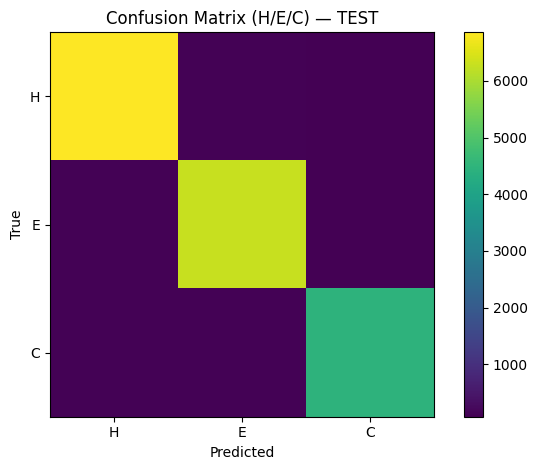
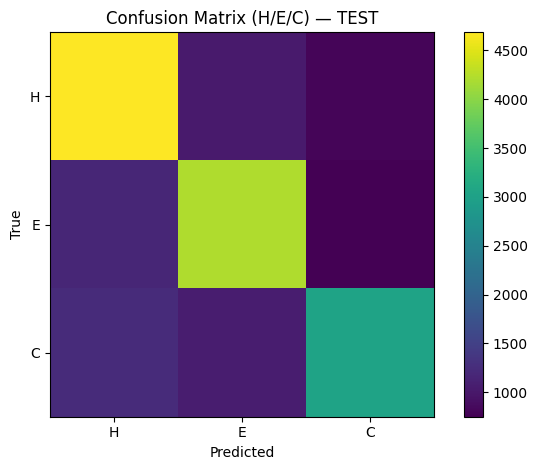
Built site for gh-pages

diff --git a/day7_seq2seq_decorder.html b/day7_seq2seq_decorder.html
@@ -64,6 +64,7 @@ pre > code.sourceCode > span > a:first-child::before { text-decoration: underlin
 <script src="site_libs/quarto-search/fuse.min.js"></script>
 <script src="site_libs/quarto-search/quarto-search.js"></script>
 <meta name="quarto:offset" content="./">
+<link href="./day8_attention.html" rel="next">
 <link href="./day6_seq2seq_encoder.html" rel="prev">
 <script src="site_libs/quarto-html/quarto.js"></script>
 <script src="site_libs/quarto-html/popper.min.js"></script>
@@ -224,6 +225,12 @@ window.Quarto = {
  <span class="menu-text"><span class="chapter-number">8</span>&nbsp; <span class="chapter-title">Day7 Seq2Seq Decoder</span></span></a>
   </div>
 </li>
+        <li class="sidebar-item">
+  <div class="sidebar-item-container"> 
+  <a href="./day8_attention.html" class="sidebar-item-text sidebar-link">
+ <span class="menu-text"><span class="chapter-number">9</span>&nbsp; <span class="chapter-title">Day8 seq2seq with attention</span></span></a>
+  </div>
+</li>
     </ul>
     </div>
 </nav>
@@ -247,6 +254,7 @@ window.Quarto = {
   <ul class="collapse">
   <li><a href="#example" id="toc-example" class="nav-link" data-scroll-target="#example"><span class="header-section-number">8.4.1</span> Example</a></li>
   <li><a href="#model-and-data" id="toc-model-and-data" class="nav-link" data-scroll-target="#model-and-data"><span class="header-section-number">8.4.2</span> Model and Data</a></li>
+  <li><a href="#training-1" id="toc-training-1" class="nav-link" data-scroll-target="#training-1"><span class="header-section-number">8.4.3</span> Training</a></li>
   </ul></li>
   </ul>
 </nav>
@@ -445,7 +453,7 @@ in an <em>autoregressive</em> manner — meaning each predicted token is fed bac
 <section id="example" class="level3" data-number="8.4.1">
 <h3 data-number="8.4.1" class="anchored" data-anchor-id="example"><span class="header-section-number">8.4.1</span> Example</h3>
 <ul>
-<li><p>Seq2Seq (no-attention) — Protein secondary-structure tagging (H/E/C)</p></li>
+<li><p>Seq2Seq (no-attention) — Protein secondary-structure tagging (H: helix, E: strand, C: coil)</p></li>
 <li><p>Task: Amino-acid sequence → per-residue labels {H: helix, E: strand, C: coil}</p>
 <ul>
 <li>Synthetic, biologically-plausible toy dataset (helix/strand segments embedded)</li>
@@ -494,7 +502,7 @@ in an <em>autoregressive</em> manner — meaning each predicted token is fed bac
 {'&lt;pad&gt;': 0, 'H': 1, 'E': 2, 'C': 3}</code></pre>
 </div>
 </div>
-<div id="cell-11" class="cell" data-execution_count="62">
+<div id="cell-11" class="cell" data-execution_count="72">
 <div class="sourceCode cell-code" id="cb5"><pre class="sourceCode python code-with-copy"><code class="sourceCode python"><span id="cb5-1"><a href="#cb5-1" aria-hidden="true" tabindex="-1"></a><span class="co"># ------------------------------</span></span>
 <span id="cb5-2"><a href="#cb5-2" aria-hidden="true" tabindex="-1"></a><span class="co"># Simple synthetic data: sample AA, assign labels by propensities + small noise</span></span>
 <span id="cb5-3"><a href="#cb5-3" aria-hidden="true" tabindex="-1"></a><span class="co"># ------------------------------</span></span>
@@ -502,7 +510,7 @@ in an <em>autoregressive</em> manner — meaning each predicted token is fed bac
 <span id="cb5-5"><a href="#cb5-5" aria-hidden="true" tabindex="-1"></a>BETA    <span class="op">=</span> <span class="bu">set</span>(<span class="bu">list</span>(<span class="st">"VIYFWTC"</span>))</span>
 <span id="cb5-6"><a href="#cb5-6" aria-hidden="true" tabindex="-1"></a>COIL    <span class="op">=</span> <span class="bu">set</span>(<span class="bu">list</span>(<span class="st">"PGSN"</span>))</span>
 <span id="cb5-7"><a href="#cb5-7" aria-hidden="true" tabindex="-1"></a></span>
-<span id="cb5-8"><a href="#cb5-8" aria-hidden="true" tabindex="-1"></a><span class="kw">def</span> gen_sample(min_len<span class="op">=</span><span class="dv">60</span>, max_len<span class="op">=</span><span class="dv">120</span>, noise<span class="op">=</span><span class="fl">0.05</span>):</span>
+<span id="cb5-8"><a href="#cb5-8" aria-hidden="true" tabindex="-1"></a><span class="kw">def</span> gen_sample(min_len<span class="op">=</span><span class="dv">60</span>, max_len<span class="op">=</span><span class="dv">120</span>, noise<span class="op">=</span><span class="fl">0.5</span>):</span>
 <span id="cb5-9"><a href="#cb5-9" aria-hidden="true" tabindex="-1"></a>    L <span class="op">=</span> random.randint(min_len, max_len)</span>
 <span id="cb5-10"><a href="#cb5-10" aria-hidden="true" tabindex="-1"></a>    seq <span class="op">=</span> [random.choice(AA) <span class="cf">for</span> _ <span class="kw">in</span> <span class="bu">range</span>(L)]</span>
 <span id="cb5-11"><a href="#cb5-11" aria-hidden="true" tabindex="-1"></a>    labels <span class="op">=</span> []</span>
@@ -541,7 +549,7 @@ in an <em>autoregressive</em> manner — meaning each predicted token is fed bac
 </section>
 <section id="model-and-data" class="level3" data-number="8.4.2">
 <h3 data-number="8.4.2" class="anchored" data-anchor-id="model-and-data"><span class="header-section-number">8.4.2</span> Model and Data</h3>
-<div id="cell-13" class="cell" data-execution_count="64">
+<div id="cell-13" class="cell">
 <div class="sourceCode cell-code" id="cb6"><pre class="sourceCode python code-with-copy"><code class="sourceCode python"><span id="cb6-1"><a href="#cb6-1" aria-hidden="true" tabindex="-1"></a></span>
 <span id="cb6-2"><a href="#cb6-2" aria-hidden="true" tabindex="-1"></a></span>
 <span id="cb6-3"><a href="#cb6-3" aria-hidden="true" tabindex="-1"></a><span class="co"># ------------------------------</span></span>
@@ -550,14 +558,14 @@ in an <em>autoregressive</em> manner — meaning each predicted token is fed bac
 <span id="cb6-6"><a href="#cb6-6" aria-hidden="true" tabindex="-1"></a><span class="kw">class</span> Tagger(nn.Module):</span>
 <span id="cb6-7"><a href="#cb6-7" aria-hidden="true" tabindex="-1"></a>    <span class="kw">def</span> <span class="fu">__init__</span>(<span class="va">self</span>, vocab, n_labels, emb<span class="op">=</span><span class="dv">128</span>, hid<span class="op">=</span><span class="dv">256</span>):</span>
 <span id="cb6-8"><a href="#cb6-8" aria-hidden="true" tabindex="-1"></a>        <span class="bu">super</span>().<span class="fu">__init__</span>()</span>
-<span id="cb6-9"><a href="#cb6-9" aria-hidden="true" tabindex="-1"></a>        <span class="va">self</span>.emb <span class="op">=</span> nn.Embedding(vocab, emb, padding_idx<span class="op">=</span>PAD_SRC)</span>
+<span id="cb6-9"><a href="#cb6-9" aria-hidden="true" tabindex="-1"></a>        <span class="va">self</span>.emb <span class="op">=</span> nn.Embedding(vocab, emb, padding_idx<span class="op">=</span>PAD_SRC) <span class="co"># vocab = 23</span></span>
 <span id="cb6-10"><a href="#cb6-10" aria-hidden="true" tabindex="-1"></a>        <span class="va">self</span>.rnn <span class="op">=</span> nn.GRU(emb, hid, batch_first<span class="op">=</span><span class="va">True</span>, bidirectional<span class="op">=</span><span class="va">True</span>)</span>
 <span id="cb6-11"><a href="#cb6-11" aria-hidden="true" tabindex="-1"></a>        <span class="va">self</span>.proj <span class="op">=</span> nn.Linear(hid<span class="op">*</span><span class="dv">2</span>, n_labels)</span>
 <span id="cb6-12"><a href="#cb6-12" aria-hidden="true" tabindex="-1"></a>    <span class="kw">def</span> forward(<span class="va">self</span>, src_ids):</span>
-<span id="cb6-13"><a href="#cb6-13" aria-hidden="true" tabindex="-1"></a>        x <span class="op">=</span> <span class="va">self</span>.emb(src_ids)                 <span class="co"># (B,S,E)</span></span>
-<span id="cb6-14"><a href="#cb6-14" aria-hidden="true" tabindex="-1"></a>        y, _ <span class="op">=</span> <span class="va">self</span>.rnn(x)                    <span class="co"># (B,S,2H)</span></span>
-<span id="cb6-15"><a href="#cb6-15" aria-hidden="true" tabindex="-1"></a>        y <span class="op">=</span> y[:,<span class="dv">1</span>:<span class="op">-</span><span class="dv">1</span>,:]                       <span class="co"># strip BOS/EOS → (B,L,2H)</span></span>
-<span id="cb6-16"><a href="#cb6-16" aria-hidden="true" tabindex="-1"></a>        <span class="cf">return</span> <span class="va">self</span>.proj(y)                   <span class="co"># (B,L,C)</span></span>
+<span id="cb6-13"><a href="#cb6-13" aria-hidden="true" tabindex="-1"></a>        x <span class="op">=</span> <span class="va">self</span>.emb(src_ids)                 <span class="co"># (Batchsize,Seq_len,Emb_dim)</span></span>
+<span id="cb6-14"><a href="#cb6-14" aria-hidden="true" tabindex="-1"></a>        y, _ <span class="op">=</span> <span class="va">self</span>.rnn(x)                    <span class="co"># (Batchsize,Seq_len,2*Hidden_dim)</span></span>
+<span id="cb6-15"><a href="#cb6-15" aria-hidden="true" tabindex="-1"></a>        y <span class="op">=</span> y[:,<span class="dv">1</span>:<span class="op">-</span><span class="dv">1</span>,:]                       <span class="co"># strip BOS/EOS → (Batchsize,Seq_len,2*Hidden_dim)</span></span>
+<span id="cb6-16"><a href="#cb6-16" aria-hidden="true" tabindex="-1"></a>        <span class="cf">return</span> <span class="va">self</span>.proj(y)                   <span class="co"># (Batchsize,Seq_len,Num_labels)</span></span>
 <span id="cb6-17"><a href="#cb6-17" aria-hidden="true" tabindex="-1"></a></span>
 <span id="cb6-18"><a href="#cb6-18" aria-hidden="true" tabindex="-1"></a><span class="co"># ------------------------------</span></span>
 <span id="cb6-19"><a href="#cb6-19" aria-hidden="true" tabindex="-1"></a><span class="co"># Loss &amp; metric</span></span>
@@ -582,7 +590,10 @@ in an <em>autoregressive</em> manner — meaning each predicted token is fed bac
 <span id="cb6-38"><a href="#cb6-38" aria-hidden="true" tabindex="-1"></a>valid_loader <span class="op">=</span> DataLoader(ProteinSSDataset(N_VALID), batch_size<span class="op">=</span>BATCH_SIZE, shuffle<span class="op">=</span><span class="va">False</span>, collate_fn<span class="op">=</span>collate_fn)</span>
 <span id="cb6-39"><a href="#cb6-39" aria-hidden="true" tabindex="-1"></a>test_loader  <span class="op">=</span> DataLoader(ProteinSSDataset(N_TEST),  batch_size<span class="op">=</span>BATCH_SIZE, shuffle<span class="op">=</span><span class="va">False</span>, collate_fn<span class="op">=</span>collate_fn)</span></code><button title="Copy to Clipboard" class="code-copy-button"><i class="bi"></i></button></pre></div>
 </div>
-<div id="cell-14" class="cell" data-execution_count="65">
+</section>
+<section id="training-1" class="level3" data-number="8.4.3">
+<h3 data-number="8.4.3" class="anchored" data-anchor-id="training-1"><span class="header-section-number">8.4.3</span> Training</h3>
+<div id="cell-15" class="cell" data-execution_count="75">
 <div class="sourceCode cell-code" id="cb7"><pre class="sourceCode python code-with-copy"><code class="sourceCode python"><span id="cb7-1"><a href="#cb7-1" aria-hidden="true" tabindex="-1"></a></span>
 <span id="cb7-2"><a href="#cb7-2" aria-hidden="true" tabindex="-1"></a><span class="co"># ------------------------------</span></span>
 <span id="cb7-3"><a href="#cb7-3" aria-hidden="true" tabindex="-1"></a><span class="co"># Train</span></span>
@@ -623,14 +634,14 @@ in an <em>autoregressive</em> manner — meaning each predicted token is fed bac
 <span id="cb7-38"><a href="#cb7-38" aria-hidden="true" tabindex="-1"></a></span>
 <span id="cb7-39"><a href="#cb7-39" aria-hidden="true" tabindex="-1"></a>infer_one(model)</span></code><button title="Copy to Clipboard" class="code-copy-button"><i class="bi"></i></button></pre></div>
 <div class="cell-output cell-output-stdout">
-<pre><code>Epoch 1: train 0.395 | valid 0.163, acc 97.02%
-Epoch 2: train 0.176 | valid 0.156, acc 97.02%
-Epoch 3: train 0.171 | valid 0.155, acc 97.02%
-Epoch 4: train 0.171 | valid 0.156, acc 97.02%
-Epoch 5: train 0.170 | valid 0.157, acc 97.02%
-SEQ : PYTIKKQWDTRVKEPWFVLITQITRFERGSMWMWAFREMMDLIYMVRPTGYNWYWMNDQHEEGKIMIICQGPEQTQYQYM
-GOLD: CEEEHHHECEHEHHCEEEHEEHEEHEHCCCHEHEHEHHHHEHEEHEHCECECEEECCCHHHHCHEHEEEHCCHHEHEHEH
-PRED: CEEEHHHECEHEHHCEEEHEEHEEHEHHCCHEHEHEHHHHCHEEHEHCECECEEEHCCHHHHCHEHEEEHCCHHEHEHEH</code></pre>
+<pre><code>Epoch 1: train 0.943 | valid 0.878, acc 67.17%
+Epoch 2: train 0.876 | valid 0.869, acc 67.17%
+Epoch 3: train 0.871 | valid 0.865, acc 67.17%
+Epoch 4: train 0.869 | valid 0.866, acc 67.17%
+Epoch 5: train 0.868 | valid 0.865, acc 67.17%
+SEQ : TDPDHFWIAEEQHMHWILHICTFFCGFAEDSHTYNNEQVSIIMPKPGFYCVRRTYDDNYVPYFIDCAYHMWMVCVRYYQVFQREFDNQALLHNEHSFAFLHPNATMAF
+GOLD: CHHHCECEHHHCHEHCHEEEECECHCCHHECEEECCHHHEEEHCHECCEEEHHEEECEHECHEECECECCHHEEHCEEHCEHHHEHCHCHECCCHCEHEHHCCEEEHC
+PRED: ECCCHEEEHHHHHHHEEHHEEEEEECEHHCCHEECCHHECEEHCHCCEEEEHHEECCCEECEEECEHEHHEHEEEHEEHEEHHHECCHHHHHCHHCEHEHHCCHEHHE</code></pre>
 </div>
 </div>
 <ul>
@@ -640,7 +651,7 @@ PRED: CEEEHHHECEHEHHCEEEHEEHEEHEHHCCHEHEHEHHHHCHEEHEHCECECEEEHCCHHHHCHEHEEEHCCHH
 <li><span class="citation" data-cites="dataclass">@dataclass</span> automatically generates methods like <strong>init</strong> and <strong>repr</strong> to make the class easier to use as a data container.</li>
 </ul></li>
 </ul>
-<div id="cell-16" class="cell" data-execution_count="66">
+<div id="cell-17" class="cell" data-execution_count="76">
 <div class="sourceCode cell-code" id="cb9"><pre class="sourceCode python code-with-copy"><code class="sourceCode python"><span id="cb9-1"><a href="#cb9-1" aria-hidden="true" tabindex="-1"></a></span>
 <span id="cb9-2"><a href="#cb9-2" aria-hidden="true" tabindex="-1"></a><span class="co"># ------------------------------</span></span>
 <span id="cb9-3"><a href="#cb9-3" aria-hidden="true" tabindex="-1"></a><span class="co"># Evaluation metrics &amp; plots (on </span><span class="al">TEST</span><span class="co"> set)</span></span>
@@ -757,11 +768,11 @@ PRED: CEEEHHHECEHEHHCEEEHEEHEEHEHHCCHEHEHEHHHHCHEEHEHCECECEEEHCCHHHHCHEHEEEHCCHH
 <div class="cell-output cell-output-stdout">
 <pre><code>
 Per-class metrics (TEST):
-  H: P=0.967 R=0.972 F1=0.970 (support=7053)
-  E: P=0.966 R=0.970 F1=0.968 (support=6479)
-  C: P=0.964 R=0.950 F1=0.957 (support=4706)
-Macro: P=0.966 R=0.964 F1=0.965
-Micro: P=0.966 R=0.966 F1=0.966</code></pre>
+  H: P=0.661 R=0.719 F1=0.689 (support=6514)
+  E: P=0.669 R=0.687 F1=0.678 (support=6145)
+  C: P=0.662 R=0.570 F1=0.612 (support=5317)
+Macro: P=0.664 R=0.659 F1=0.660
+Micro: P=0.664 R=0.664 F1=0.664</code></pre>
 </div>
 <div class="cell-output cell-output-display">
 <div>
@@ -1200,6 +1211,9 @@ window.document.addEventListener("DOMContentLoaded", function (event) {
       </a>          
   </div>
   <div class="nav-page nav-page-next">
+      <a href="./day8_attention.html" class="pagination-link" aria-label="Day8 seq2seq with attention">
+        <span class="nav-page-text"><span class="chapter-number">9</span>&nbsp; <span class="chapter-title">Day8 seq2seq with attention</span></span> <i class="bi bi-arrow-right-short"></i>
+      </a>
   </div>
 </nav>
 </div> <!-- /content -->

diff --git a/day8_attention.html b/day8_attention.html
@@ -7,7 +7,7 @@
 <meta name="viewport" content="width=device-width, initial-scale=1.0, user-scalable=yes">
 
 
-<title>KAIST Deep Learning - 9&nbsp; Day8 seq2seq with attention</title>
+<title>KAIST Engineering Biology Programming - 9&nbsp; Day8 seq2seq with attention</title>
 <style>
 code{white-space: pre-wrap;}
 span.smallcaps{font-variant: small-caps;}
@@ -64,7 +64,7 @@ pre > code.sourceCode > span > a:first-child::before { text-decoration: underlin
 <script src="site_libs/quarto-search/fuse.min.js"></script>
 <script src="site_libs/quarto-search/quarto-search.js"></script>
 <meta name="quarto:offset" content="./">
-<link href="./day7_seq2seq_aa.html" rel="prev">
+<link href="./day7_seq2seq_decorder.html" rel="prev">
 <script src="site_libs/quarto-html/quarto.js"></script>
 <script src="site_libs/quarto-html/popper.min.js"></script>
 <script src="site_libs/quarto-html/tippy.umd.min.js"></script>
@@ -159,7 +159,7 @@ window.Quarto = {
   <nav id="quarto-sidebar" class="sidebar collapse collapse-horizontal quarto-sidebar-collapse-item sidebar-navigation floating overflow-auto">
     <div class="pt-lg-2 mt-2 text-left sidebar-header">
     <div class="sidebar-title mb-0 py-0">
-      <a href="./">KAIST Deep Learning</a> 
+      <a href="./">KAIST Engineering Biology Programming</a> 
         <div class="sidebar-tools-main">
   <a href="" class="quarto-reader-toggle quarto-navigation-tool px-1" onclick="window.quartoToggleReader(); return false;" title="Toggle reader mode">
   <div class="quarto-reader-toggle-btn">
@@ -214,14 +214,14 @@ window.Quarto = {
 </li>
         <li class="sidebar-item">
   <div class="sidebar-item-container"> 
-  <a href="./day6_seq2seq.html" class="sidebar-item-text sidebar-link">
- <span class="menu-text"><span class="chapter-number">7</span>&nbsp; <span class="chapter-title">Day6 Seq2Seq - Encoder</span></span></a>
+  <a href="./day6_seq2seq_encoder.html" class="sidebar-item-text sidebar-link">
+ <span class="menu-text"><span class="chapter-number">7</span>&nbsp; <span class="chapter-title">Day6 Seq2Seq Encoder</span></span></a>
   </div>
 </li>
         <li class="sidebar-item">
   <div class="sidebar-item-container"> 
-  <a href="./day7_seq2seq_aa.html" class="sidebar-item-text sidebar-link">
- <span class="menu-text"><span class="chapter-number">8</span>&nbsp; <span class="chapter-title">Day7 Seq2Seq with AA</span></span></a>
+  <a href="./day7_seq2seq_decorder.html" class="sidebar-item-text sidebar-link">
+ <span class="menu-text"><span class="chapter-number">8</span>&nbsp; <span class="chapter-title">Day7 Seq2Seq Decoder</span></span></a>
   </div>
 </li>
         <li class="sidebar-item">
@@ -1134,8 +1134,8 @@ window.document.addEventListener("DOMContentLoaded", function (event) {
 </script>
 <nav class="page-navigation">
   <div class="nav-page nav-page-previous">
-      <a href="./day7_seq2seq_aa.html" class="pagination-link" aria-label="Day7 Seq2Seq with AA">
-        <i class="bi bi-arrow-left-short"></i> <span class="nav-page-text"><span class="chapter-number">8</span>&nbsp; <span class="chapter-title">Day7 Seq2Seq with AA</span></span>
+      <a href="./day7_seq2seq_decorder.html" class="pagination-link" aria-label="Day7 Seq2Seq Decoder">
+        <i class="bi bi-arrow-left-short"></i> <span class="nav-page-text"><span class="chapter-number">8</span>&nbsp; <span class="chapter-title">Day7 Seq2Seq Decoder</span></span>
       </a>          
   </div>
   <div class="nav-page nav-page-next">
@@ -1145,7 +1145,7 @@ window.document.addEventListener("DOMContentLoaded", function (event) {
 <footer class="footer">
   <div class="nav-footer">
     <div class="nav-footer-left">
-<p>2024 lecture note written by Haseong Kim</p>
+<p>2025 lecture note written by Haseong Kim</p>
 </div>   
     <div class="nav-footer-center">
       &nbsp;

diff --git a/day3_cnn_dna.html b/day3_cnn_dna.html
@@ -196,6 +196,12 @@ pre > code.sourceCode > span > a:first-child::before { text-decoration: underlin
  <span class="menu-text"><span class="chapter-number">8</span>&nbsp; <span class="chapter-title">Day7 Seq2Seq Decoder</span></span></a>
   </div>
 </li>
+        <li class="sidebar-item">
+  <div class="sidebar-item-container"> 
+  <a href="./day8_attention.html" class="sidebar-item-text sidebar-link">
+ <span class="menu-text"><span class="chapter-number">9</span>&nbsp; <span class="chapter-title">Day8 seq2seq with attention</span></span></a>
+  </div>
+</li>
     </ul>
     </div>
 </nav>

diff --git a/index.html b/index.html
@@ -163,6 +163,12 @@ ul.task-list li input[type="checkbox"] {
  <span class="menu-text"><span class="chapter-number">8</span>&nbsp; <span class="chapter-title">Day7 Seq2Seq Decoder</span></span></a>
   </div>
 </li>
+        <li class="sidebar-item">
+  <div class="sidebar-item-container"> 
+  <a href="./day8_attention.html" class="sidebar-item-text sidebar-link">
+ <span class="menu-text"><span class="chapter-number">9</span>&nbsp; <span class="chapter-title">Day8 seq2seq with attention</span></span></a>
+  </div>
+</li>
     </ul>
     </div>
 </nav>

diff --git a/day1_optimization.html b/day1_optimization.html
@@ -225,6 +225,12 @@ window.Quarto = {
  <span class="menu-text"><span class="chapter-number">8</span>&nbsp; <span class="chapter-title">Day7 Seq2Seq Decoder</span></span></a>
   </div>
 </li>
+        <li class="sidebar-item">
+  <div class="sidebar-item-container"> 
+  <a href="./day8_attention.html" class="sidebar-item-text sidebar-link">
+ <span class="menu-text"><span class="chapter-number">9</span>&nbsp; <span class="chapter-title">Day8 seq2seq with attention</span></span></a>
+  </div>
+</li>
     </ul>
     </div>
 </nav>

diff --git a/day2_neural_networks.html b/day2_neural_networks.html
@@ -225,6 +225,12 @@ window.Quarto = {
  <span class="menu-text"><span class="chapter-number">8</span>&nbsp; <span class="chapter-title">Day7 Seq2Seq Decoder</span></span></a>
   </div>
 </li>
+        <li class="sidebar-item">
+  <div class="sidebar-item-container"> 
+  <a href="./day8_attention.html" class="sidebar-item-text sidebar-link">
+ <span class="menu-text"><span class="chapter-number">9</span>&nbsp; <span class="chapter-title">Day8 seq2seq with attention</span></span></a>
+  </div>
+</li>
     </ul>
     </div>
 </nav>

diff --git a/day4_cnn.html b/day4_cnn.html
@@ -225,6 +225,12 @@ window.Quarto = {
  <span class="menu-text"><span class="chapter-number">8</span>&nbsp; <span class="chapter-title">Day7 Seq2Seq Decoder</span></span></a>
   </div>
 </li>
+        <li class="sidebar-item">
+  <div class="sidebar-item-container"> 
+  <a href="./day8_attention.html" class="sidebar-item-text sidebar-link">
+ <span class="menu-text"><span class="chapter-number">9</span>&nbsp; <span class="chapter-title">Day8 seq2seq with attention</span></span></a>
+  </div>
+</li>
     </ul>
     </div>
 </nav>

diff --git a/day5_model_evaluation.html b/day5_model_evaluation.html
@@ -225,6 +225,12 @@ window.Quarto = {
  <span class="menu-text"><span class="chapter-number">8</span>&nbsp; <span class="chapter-title">Day7 Seq2Seq Decoder</span></span></a>
   </div>
 </li>
+        <li class="sidebar-item">
+  <div class="sidebar-item-container"> 
+  <a href="./day8_attention.html" class="sidebar-item-text sidebar-link">
+ <span class="menu-text"><span class="chapter-number">9</span>&nbsp; <span class="chapter-title">Day8 seq2seq with attention</span></span></a>
+  </div>
+</li>
     </ul>
     </div>
 </nav>

diff --git a/day6_seq2seq_encoder.html b/day6_seq2seq_encoder.html
@@ -225,6 +225,12 @@ window.Quarto = {
  <span class="menu-text"><span class="chapter-number">8</span>&nbsp; <span class="chapter-title">Day7 Seq2Seq Decoder</span></span></a>
   </div>
 </li>
+        <li class="sidebar-item">
+  <div class="sidebar-item-container"> 
+  <a href="./day8_attention.html" class="sidebar-item-text sidebar-link">
+ <span class="menu-text"><span class="chapter-number">9</span>&nbsp; <span class="chapter-title">Day8 seq2seq with attention</span></span></a>
+  </div>
+</li>
     </ul>
     </div>
 </nav>
